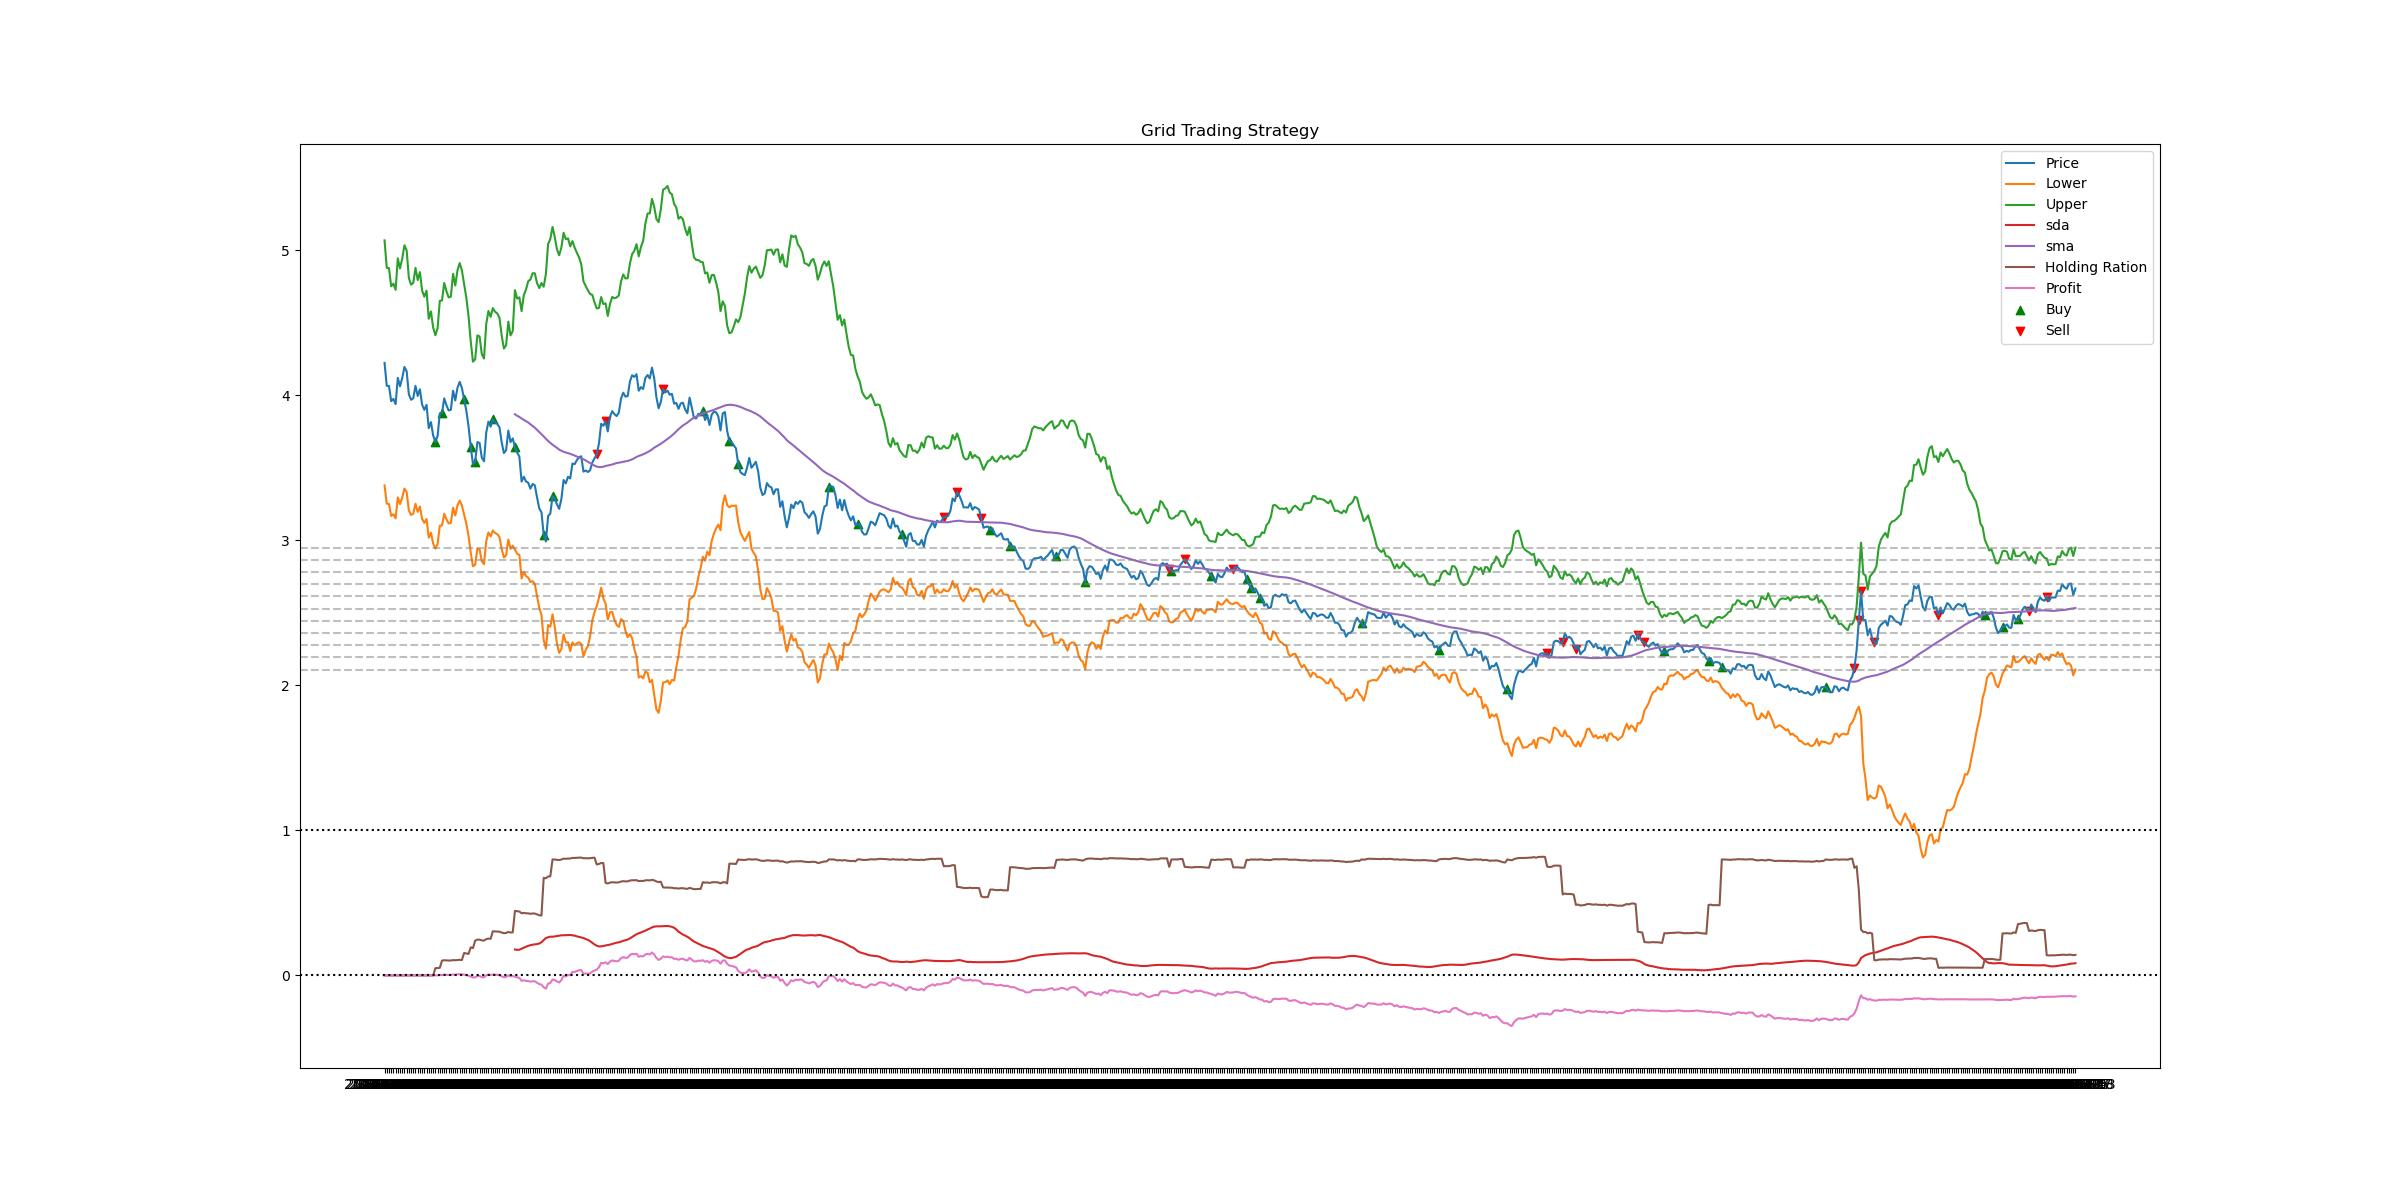
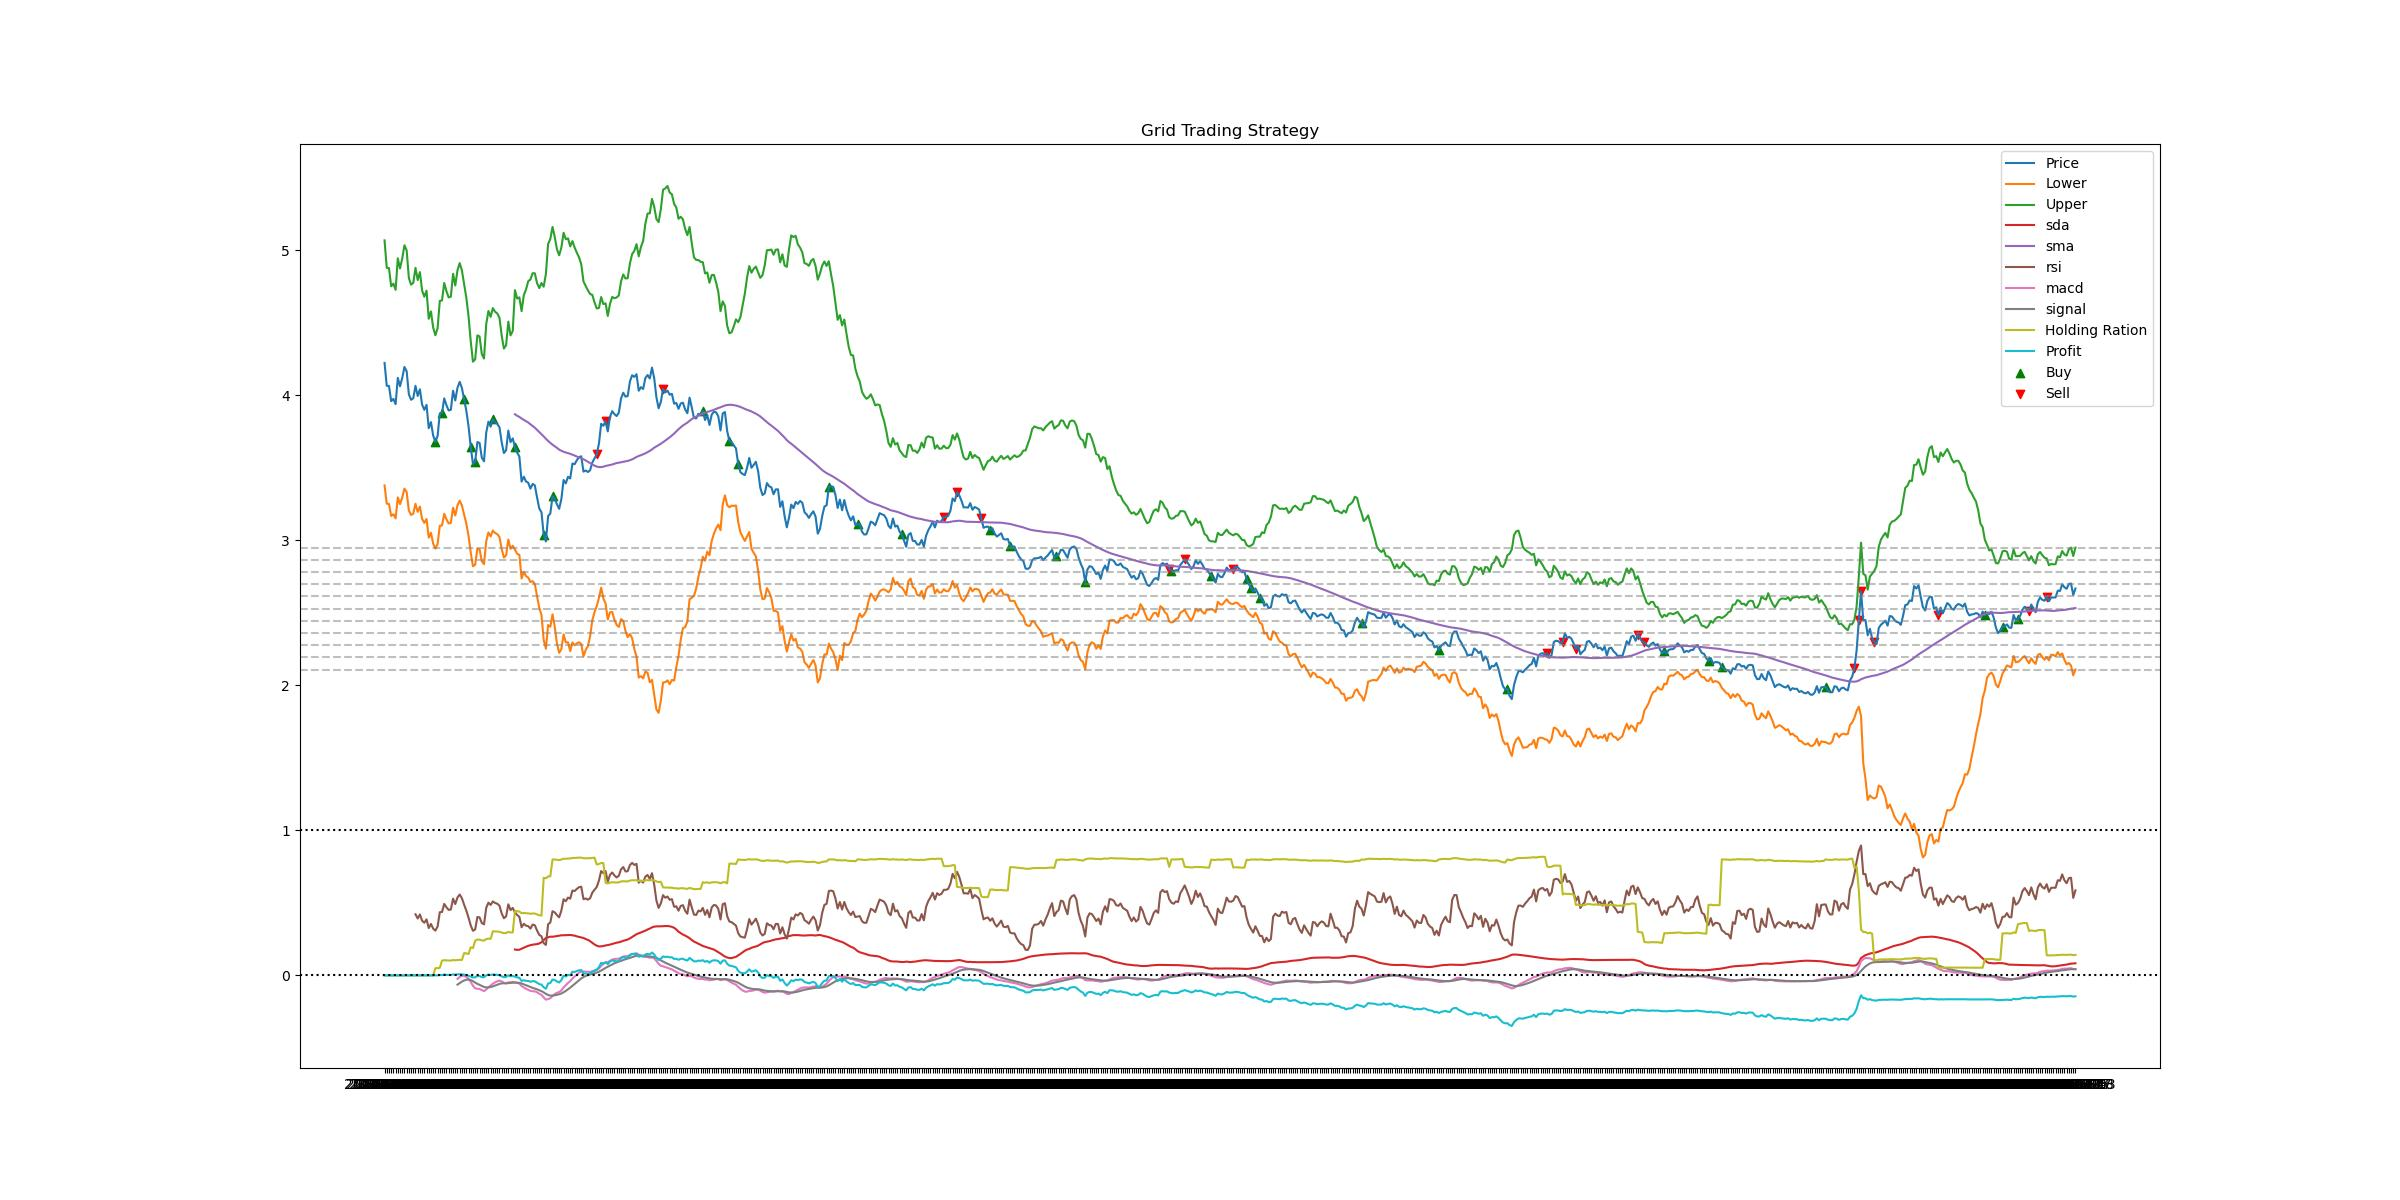
t

diff --git a/ayaa/strategy/grid_strategy.py b/ayaa/strategy/grid_strategy.py
@@ -184,6 +184,10 @@ class GridTradingStrategy:
         plt.plot(self.data['date'], self.ub['upper_band'], label='Upper')
         plt.plot(self.data['date'], self.ub['sda'], label='sda')
         plt.plot(self.data['date'], self.ub['sma'], label='sma')
+        plt.plot(self.data['date'], self.ub['rsi'], label='rsi')
+        plt.plot(self.data['date'], self.ub['macd'], label='macd')
+        plt.plot(self.data['date'], self.ub['signal'], label='signal')
+
         plt.plot([i['date'] for i in self.holding_rations], [i['ration'] for i in self.holding_rations], label='Holding Ration')
         plt.plot([i['date'] for i in self.holding_rations], [i['profit'] for i in self.holding_rations], label='Profit')
         plt.axhline(y=0, color="black", linestyle=":")

diff --git a/ayaa/utils/perf.py b/ayaa/utils/perf.py
@@ -1,4 +1,5 @@
 import pandas as pd
+import talib
 import numpy as np
 
 def calculate_bollinger_bands(data, window=20, num_std=2, price_col='close', fill_na=False):
@@ -22,6 +23,8 @@ def calculate_bollinger_bands(data, window=20, num_std=2, price_col='close', fil
     df['sbc5p'] = df['sbc5'].apply(lambda x : x if x > 0 else 0)
     df['sbc5n'] = df['sbc5'].apply(lambda x : x if x < 0 else 0)
 
+    df['rsi'] = talib.RSI(df[price_col], timeperiod=14) / 100
+    df['macd'], df['signal'], hist = talib.MACD(df[price_col], fastperiod=12, slowperiod=26, signalperiod=9)
     # 计算标准差
     df['sda'] = df[price_col].rolling(window=window).std()
     rolling_std = df[price_col].rolling(window=window).std()
